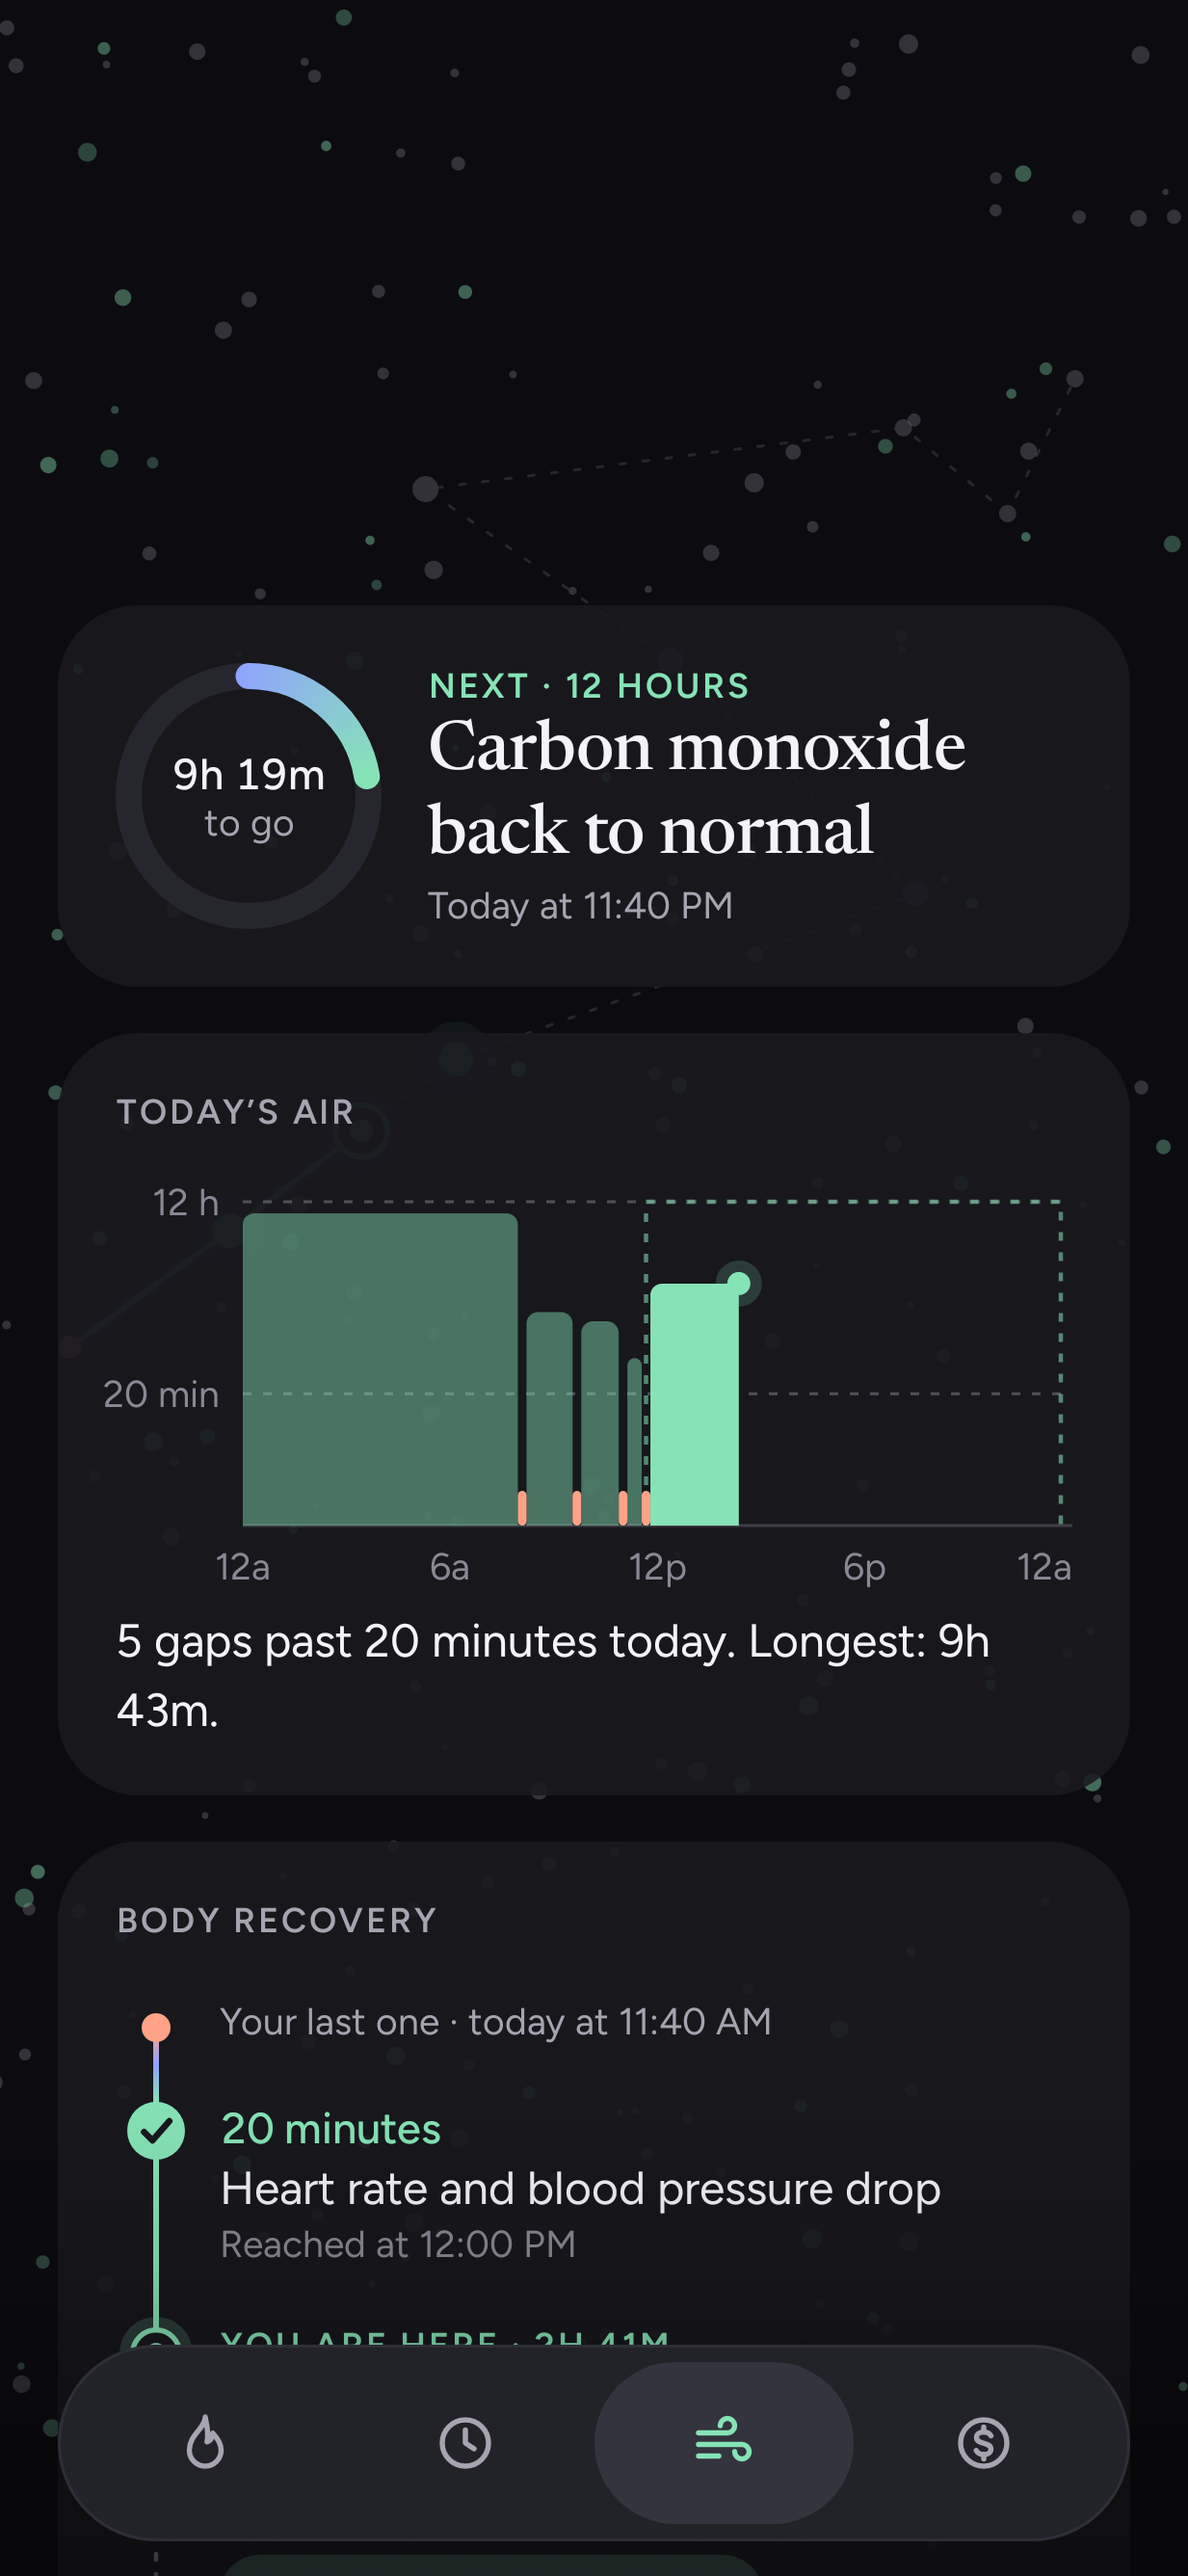
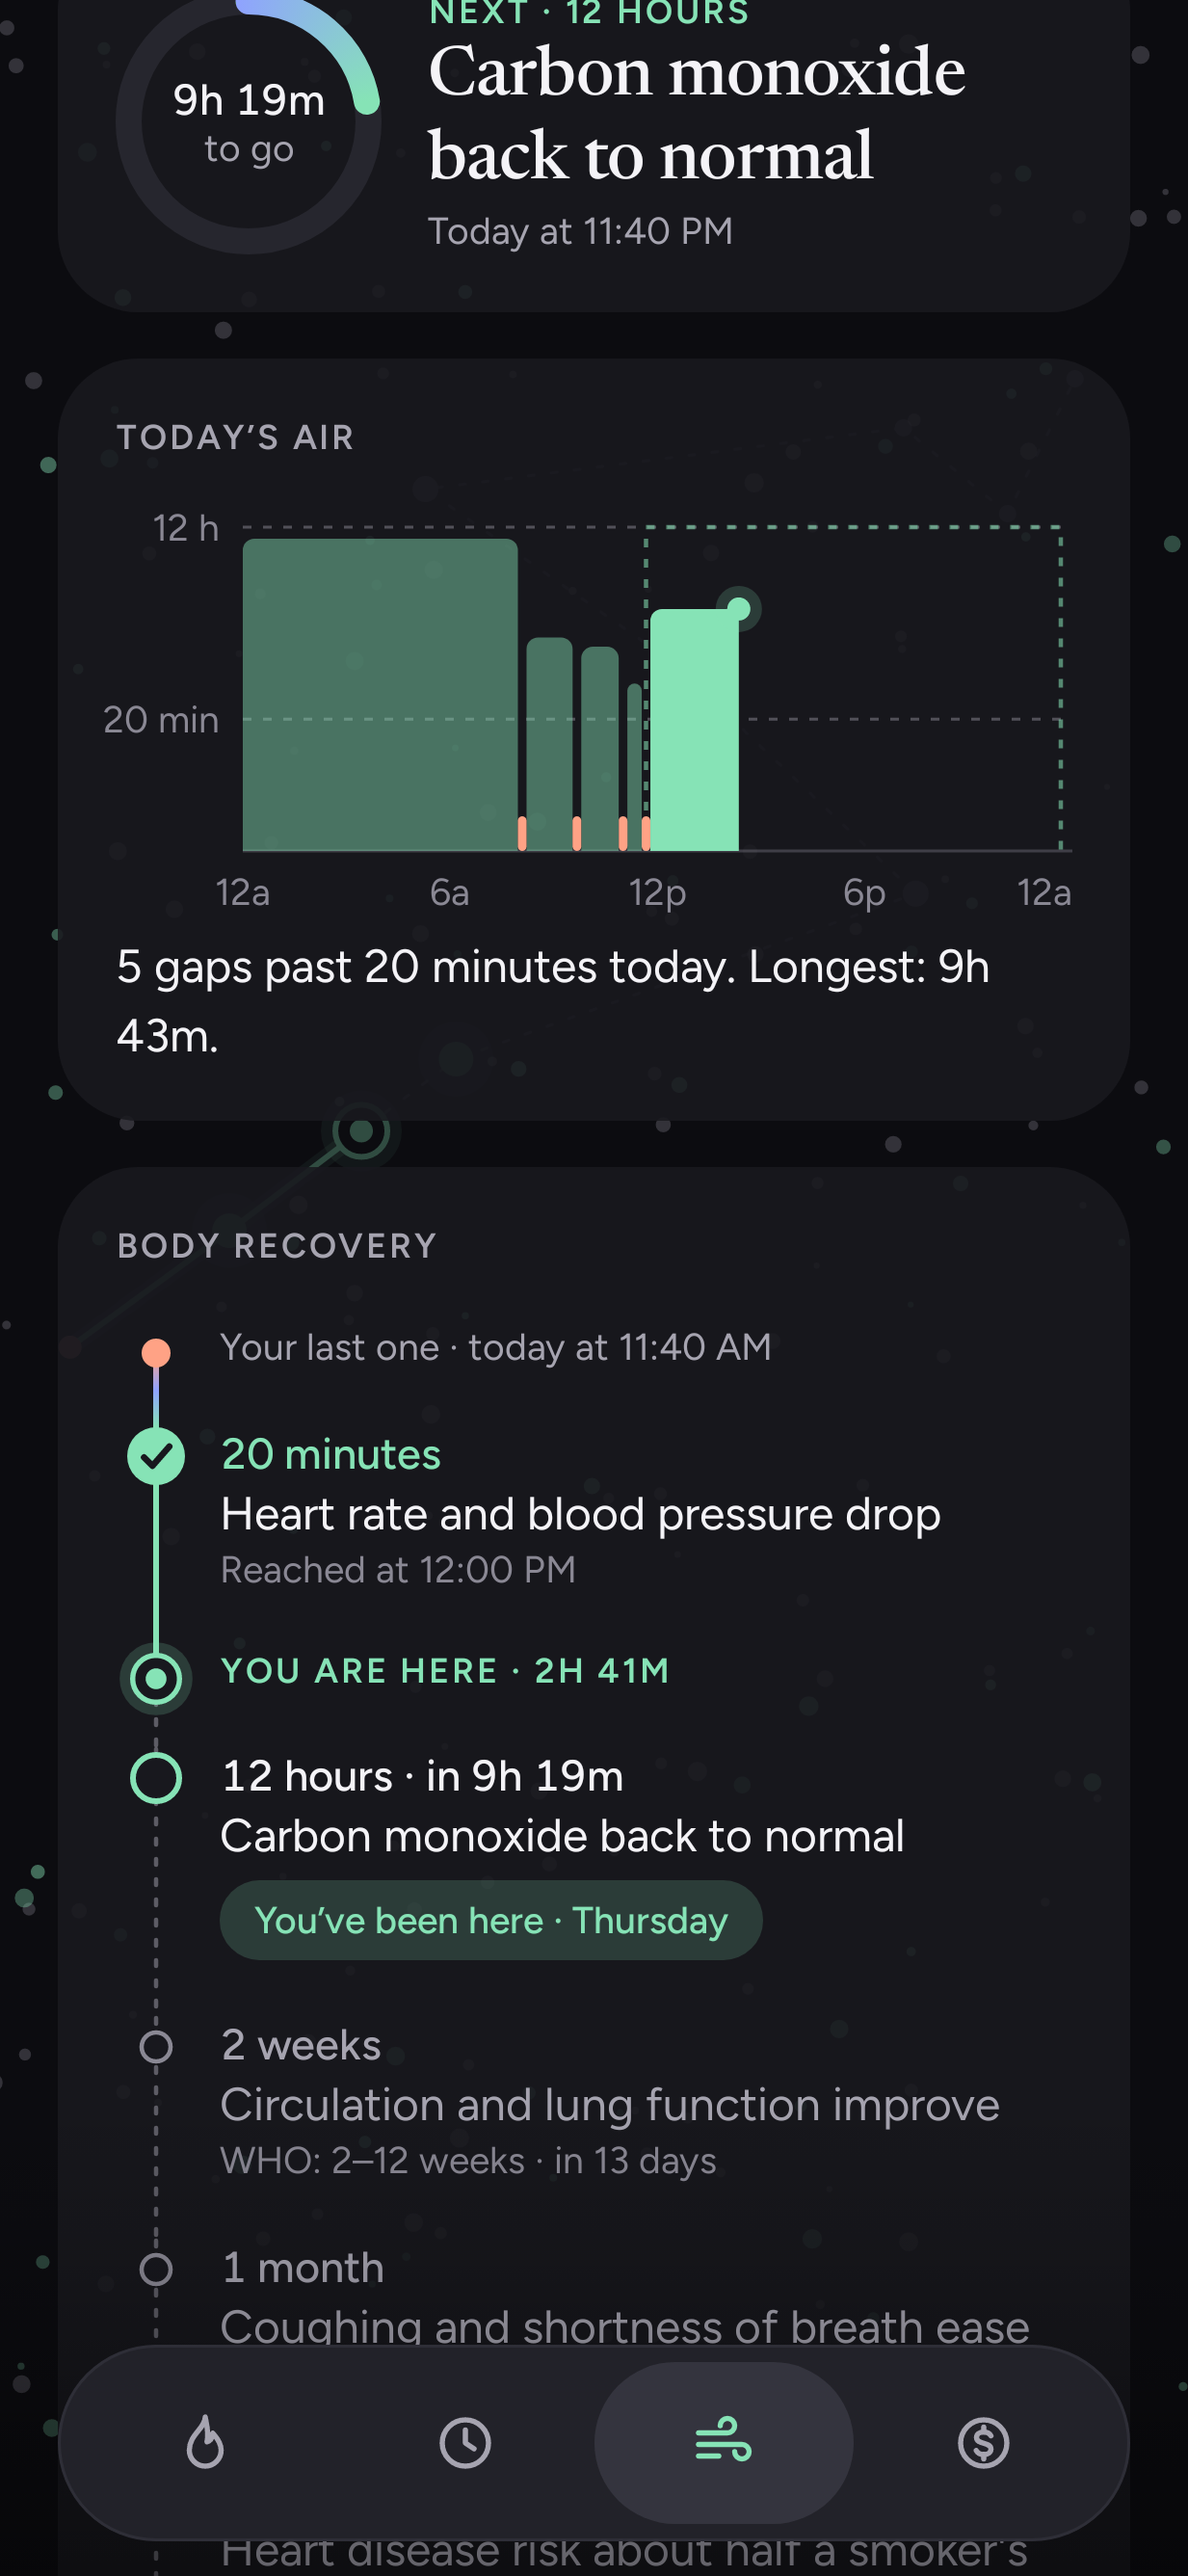
Air: header holds still until the cards after the sky reach it
While scrolling Air, the overline and hero now stay in place, drawn over
the rising sky, until the next card comes up to meet them (with the usual
16dp gap); then they leave with it. The distance is the sky's measured
height plus that gap, read once from layout, so scrolling still only moves
and fades what is drawn.

The overline moves from ExScreen's header slot into the pinned block, with
the same 48dp row, so the resting screen is unchanged. New screenshot
case for the pinned moment; the scrolled case now scrolls far enough for
the header to have left.

Claude-Session: https://claude.ai/code/session_018i9YmtHW4FMFsnnXZQVno4

diff --git a/app/src/main/java/app/exhale/ui/screens/AirScreen.kt b/app/src/main/java/app/exhale/ui/screens/AirScreen.kt
@@ -35,6 +35,7 @@ import androidx.compose.material3.Text
 import androidx.compose.runtime.Composable
 import androidx.compose.runtime.LaunchedEffect
 import androidx.compose.runtime.getValue
+import androidx.compose.runtime.mutableIntStateOf
 import androidx.compose.runtime.mutableLongStateOf
 import androidx.compose.runtime.mutableStateOf
 import androidx.compose.runtime.remember
@@ -46,6 +47,8 @@ import androidx.compose.ui.Modifier
 import androidx.compose.ui.draw.clip
 import androidx.compose.ui.draw.drawBehind
 import androidx.compose.ui.draw.rotate
+import androidx.compose.ui.layout.onSizeChanged
+import androidx.compose.ui.zIndex
 import androidx.compose.ui.geometry.CornerRadius
 import androidx.compose.ui.geometry.Offset
 import androidx.compose.ui.geometry.Rect
@@ -87,6 +90,7 @@ import app.exhale.ui.components.GradientRing
 import app.exhale.ui.components.Overline
 import app.exhale.ui.theme.Ex
 import app.exhale.ui.theme.ExRadius
+import app.exhale.ui.theme.ExSize
 import app.exhale.ui.theme.ExSpace
 import app.exhale.ui.theme.ExType
 import java.time.Duration
@@ -106,8 +110,10 @@ private class Particle(val x: Float, var y: Float, val v: Float, val r: Float, v
 /**
  * Air: what the body gets back after each cigarette, built so nothing resets. A sky of milestones
  * (lit once any gap has reached them; a dot with a trail for the current gap), the next milestone,
- * today's gaps, and the full timeline. While scrolling, the sky rises a little, dims and drops its
- * labels, and the rest of the screen scrolls over it. [initialScroll] (px) is for screenshots.
+ * today's gaps, and the full timeline. While scrolling, the header (overline and hero) stays put
+ * until the content after the sky reaches it, then scrolls away with it; the sky rises a little,
+ * dims and drops its labels, and the rest of the screen scrolls over it. [initialScroll] (px) is
+ * for screenshots.
  */
 @Composable
 fun AirScreen(state: ExhaleState, initialScroll: Int = 0) {
@@ -120,14 +126,28 @@ fun AirScreen(state: ExhaleState, initialScroll: Int = 0) {
     val since = state.sinceLast
     val last = state.lastLog?.at
     val words = TimeWords(state.now, zone, h24)
+    // How far the screen scrolls before the content after the sky reaches the header: the sky's
+    // height plus the gap after it. Measured once from the layout, not on every frame.
+    var skyHeight by remember { mutableIntStateOf(0) }
 
     ExScreen(
-        header = { Overline("Recovery · if you stop now") },
         background = { ParticleField(clear, Modifier.fillMaxSize()) },
         scrollState = scroll,
     ) {
-        Hero(since, r?.next)
-        RecoverySky(since, r?.lastReached.orEmpty(), r?.next, words, scroll)
+        // The header stays in place (it scrolls with the column, so it is moved back down by the
+        // scroll) until the next card meets it, then goes up with it. Drawn over the rising sky.
+        Column(
+            Modifier
+                .zIndex(1f)
+                .graphicsLayer { translationY = min(scroll.value.toFloat(), skyHeight + ExSpace.md.toPx()) },
+            verticalArrangement = Arrangement.spacedBy(ExSpace.md),
+        ) {
+            Row(Modifier.fillMaxWidth().heightIn(min = ExSize.iconButton), verticalAlignment = Alignment.CenterVertically) {
+                Overline("Recovery · if you stop now")
+            }
+            Hero(since, r?.next)
+        }
+        RecoverySky(since, r?.lastReached.orEmpty(), r?.next, words, scroll, Modifier.onSizeChanged { skyHeight = it.height })
         if (since != null && last != null && r != null) {
             NextCard(since, last, r.next, words)
             if (r.today.gaps.isNotEmpty()) TodaysAirCard(r.today, state.now, words)
@@ -223,6 +243,7 @@ private fun RecoverySky(
     next: Milestone?,
     words: TimeWords,
     scroll: ScrollState,
+    modifier: Modifier = Modifier,
 ) {
     val c = Ex.colors
     val lit = List(Milestones.all.size) { lastReached.getOrNull(it) != null }
@@ -247,7 +268,7 @@ private fun RecoverySky(
     val bg = c.bg
 
     Column(
-        Modifier
+        modifier
             .fillMaxWidth()
             .graphicsLayer {
                 val s = scroll.value.toFloat()

diff --git a/app/src/test/java/app/exhale/ui/ScreenshotTest.kt b/app/src/test/java/app/exhale/ui/ScreenshotTest.kt
@@ -200,9 +200,13 @@ class ScreenshotTest {
     @Test fun rhythmLight() = shot("4_rhythm", false, 1) { RhythmScreen(longState()) }
     @Test fun airDark() = shot("5_air", true, 2) { AirScreen(sampleState()) }
     @Test fun airLight() = shot("5_air", false, 2) { AirScreen(sampleState()) }
-    // Scrolled past the sky: it has risen a little, dimmed and dropped its labels; cards scroll over it.
-    @Test fun airScrolledDark() = shot("5b_air_scrolled", true, 2) { AirScreen(sampleState(), initialScroll = 1300) }
-    @Test fun airScrolledLight() = shot("5b_air_scrolled", false, 2) { AirScreen(sampleState(), initialScroll = 1300) }
+    // Scrolled past the sky: the header has gone up with the cards; the sky has risen a little, dimmed and dropped
+    // its labels, and the cards scroll over it.
+    @Test fun airScrolledDark() = shot("5b_air_scrolled", true, 2) { AirScreen(sampleState(), initialScroll = 2000) }
+    @Test fun airScrolledLight() = shot("5b_air_scrolled", false, 2) { AirScreen(sampleState(), initialScroll = 2000) }
+    // Partway: the header stays in place while the next card comes up to meet it.
+    @Test fun airPinnedDark() = shot("5f_air_pinned", true, 2) { AirScreen(sampleState(), initialScroll = 800) }
+    @Test fun airPinnedLight() = shot("5f_air_pinned", false, 2) { AirScreen(sampleState(), initialScroll = 800) }
     // Four minutes after a cigarette: the gap starts again, but milestones reached before stay lit.
     @Test fun airLoggedDark() = shot("5c_air_logged", true, 2) { AirScreen(sampleState(4)) }
     @Test fun airLoggedLight() = shot("5c_air_logged", false, 2) { AirScreen(sampleState(4)) }

diff --git a/docs/DESIGN-SYSTEM.md b/docs/DESIGN-SYSTEM.md
@@ -51,7 +51,7 @@ Exhale's own line icons: 24px grid, 1.8 stroke, round caps and joins, no fills. 
 - Screen transitions are short (260ms) and slide: tabs move like pages in tab order; full-screen flows push in from the right over a receding screen and pop back.
 - The craving screen's breathing guide is text only. The current instruction fills with colour letter by letter over its duration; centred under the wave; the next waits below, small and faded ("then hold · 2s"), and brightens and lifts in the last second; on a change it glides up and grows into place while the old one floats away. The halo around the wave's dot swells and shrinks continuously with the breath.
 - Ambient loops are slow (orb breathing 4.2s, particles drifting) and stop when the screen leaves.
-- Air's sky collapses with the scroll instead of scrolling away: it rises at a third of the scroll speed (up to 120px), dims to 30%, and its labels fade in the first 80px; the cards scroll over it. Scroll-linked effects only move and fade what is already drawn.
+- Air's header holds still while scrolling until the cards after the sky reach it, then leaves with them. The sky collapses instead of scrolling away: it rises at a third of the scroll speed (up to 120px), dims to 30%, and its labels fade in the first 80px; the cards scroll over it. Scroll-linked effects only move and fade what is already drawn.
 - The Ember ("Gather") is a molten core that pulses every 4s with four droplets orbiting slowly, each touching and merging with it about a third of the time. Holding pulls the drops in and runs a trail around it along the heat scale; logging flings them out with a ring and a splash.
 - Each haptic has one meaning: rising ticks = charging the hold (12 over 1.5s), thud = logged, two soft thuds = a log that goes over today's allowance, double tick = next one earned, low tick = breath phase change. Every pattern checks that the phone supports it and falls back to plain vibration, so it works on Samsung and Xiaomi phones too.
 

diff --git a/docs/SPEC.md b/docs/SPEC.md
@@ -173,9 +173,12 @@ its last cigarette, and a milestone that any gap has reached stays reached. Orde
   `Milestones.position`; it glides back to the start after a log. Every point is labelled, so
   nothing needs a tap: "12 h · reached Thursday / Carbon monoxide normal". A key below:
   "reached at least once" (only once something is) and "this gap".
-- **Scrolling**: the sky rises at 35% of the scroll speed, by at most 120dp, and dims to 30% over
-  360dp; its labels and key fade out in the first 80dp, drifting up 8dp. Everything after it scrolls
-  normally over it, so the dimmed sky stays behind the cards. The hero scrolls away.
+- **Scrolling**: the header (overline and hero) stays in place until the content after the sky
+  (the next card) comes up to meet it, a normal 16dp gap below it, then goes up with that content.
+  Meanwhile the sky rises at 35% of the scroll speed, by at most 120dp, and dims to 30% over 360dp;
+  its labels and key fade out in the first 80dp, drifting up 8dp. The header is drawn over the
+  rising sky. Everything after the sky scrolls normally over it, so the dimmed sky stays behind the
+  cards.
 - **Next card**: a sky→oxygen ring of the way to the next milestone with the time to go in the
   middle ("9h 19m", then "13 days", "11 months", "1 year"), "Next · 12 hours", the milestone and when
   ("Today at 23:40", "Tomorrow at 09:10", "Saturday at 10:00", "On 18 Nov").
